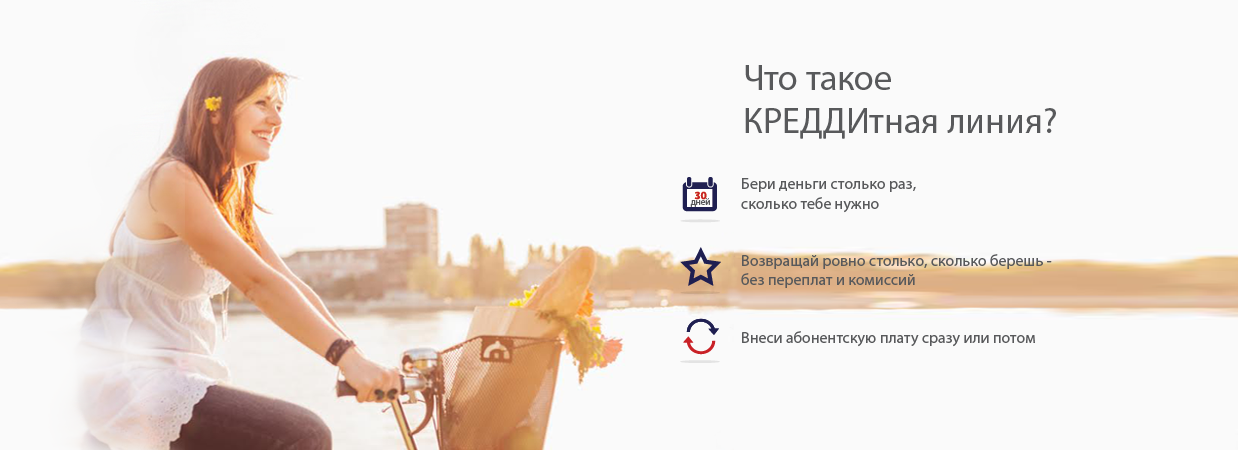
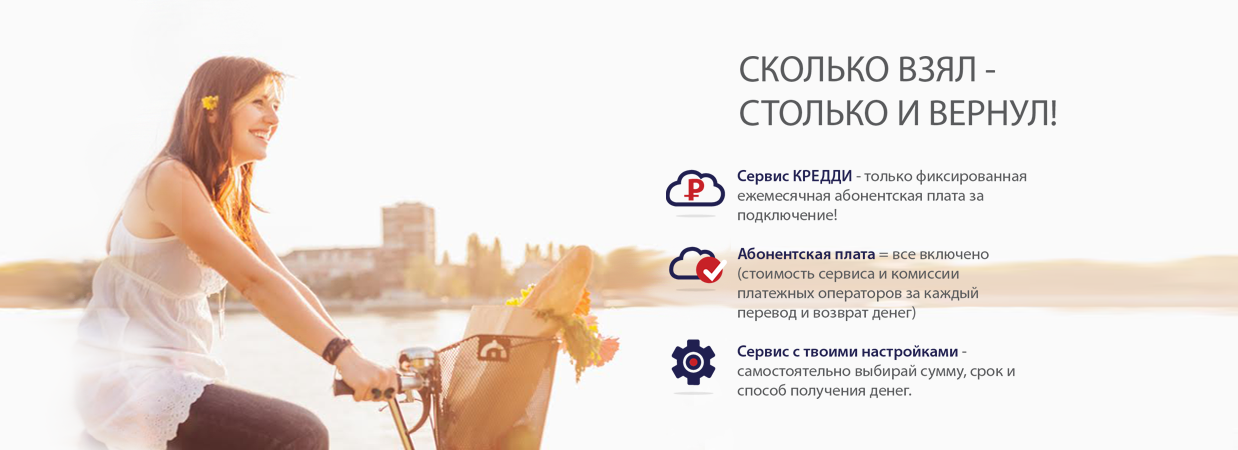
#2513 новые баннеры в карусель и в ЛК

diff --git a/protected/components/CarouselWidget.php b/protected/components/CarouselWidget.php
@@ -19,6 +19,10 @@ class CarouselWidget extends CWidget
 				'image' => CHtml::encode('/static/img/kreddyline-carousel/banner2.png'),
 				'label' => 'КРЕДДИтная линия',
 			),
+			array(
+				'image' => CHtml::encode('/static/img/kreddyline-carousel/banner3.png'),
+				'label' => 'КРЕДДИтная линия',
+			),
 		);
 		?>
 		<div class="container carouselWidget">

diff --git a/protected/modules/account/views/default/index_not_sms_auth/index.php b/protected/modules/account/views/default/index_not_sms_auth/index.php
@@ -25,5 +25,5 @@ if (Yii::app()->adminKreddyApi->isSubscriptionOldType()) {
 <?= $sPassFormRender // отображаем форму запроса SMS-пароля ?>
 
 <?
-$this->widget('application.modules.account.components.AppInfoWidget');
+$this->widget('application.modules.account.components.BannerWidget');
 ?>

diff --git a/protected/modules/account/views/default/index_is_sms_auth/index.php b/protected/modules/account/views/default/index_is_sms_auth/index.php
@@ -40,5 +40,5 @@ if (Yii::app()->adminKreddyApi->isSubscriptionOldType()) {
 	<br />
 <?
 }
-$this->widget('application.modules.account.components.AppInfoWidget');
+$this->widget('application.modules.account.components.BannerWidget');
 ?>

diff --git a/protected/modules/account/components/BannerWidget.php b/protected/modules/account/components/BannerWidget.php
@@ -1,0 +1,12 @@
+<?php
+
+/**
+ * Class BannerWidget
+ */
+class BannerWidget extends CWidget
+{
+	public function run()
+	{
+		$this->render('banner');
+	}
+} 

diff --git a/protected/modules/account/components/views/banner.php b/protected/modules/account/components/views/banner.php
@@ -1,0 +1,4 @@
+<div class="clearfix"></div>
+<div class="center">
+	<img alt="" src="/static/img/banners/kreddy_banner_velik_620x210_2.png" />
+</div>
